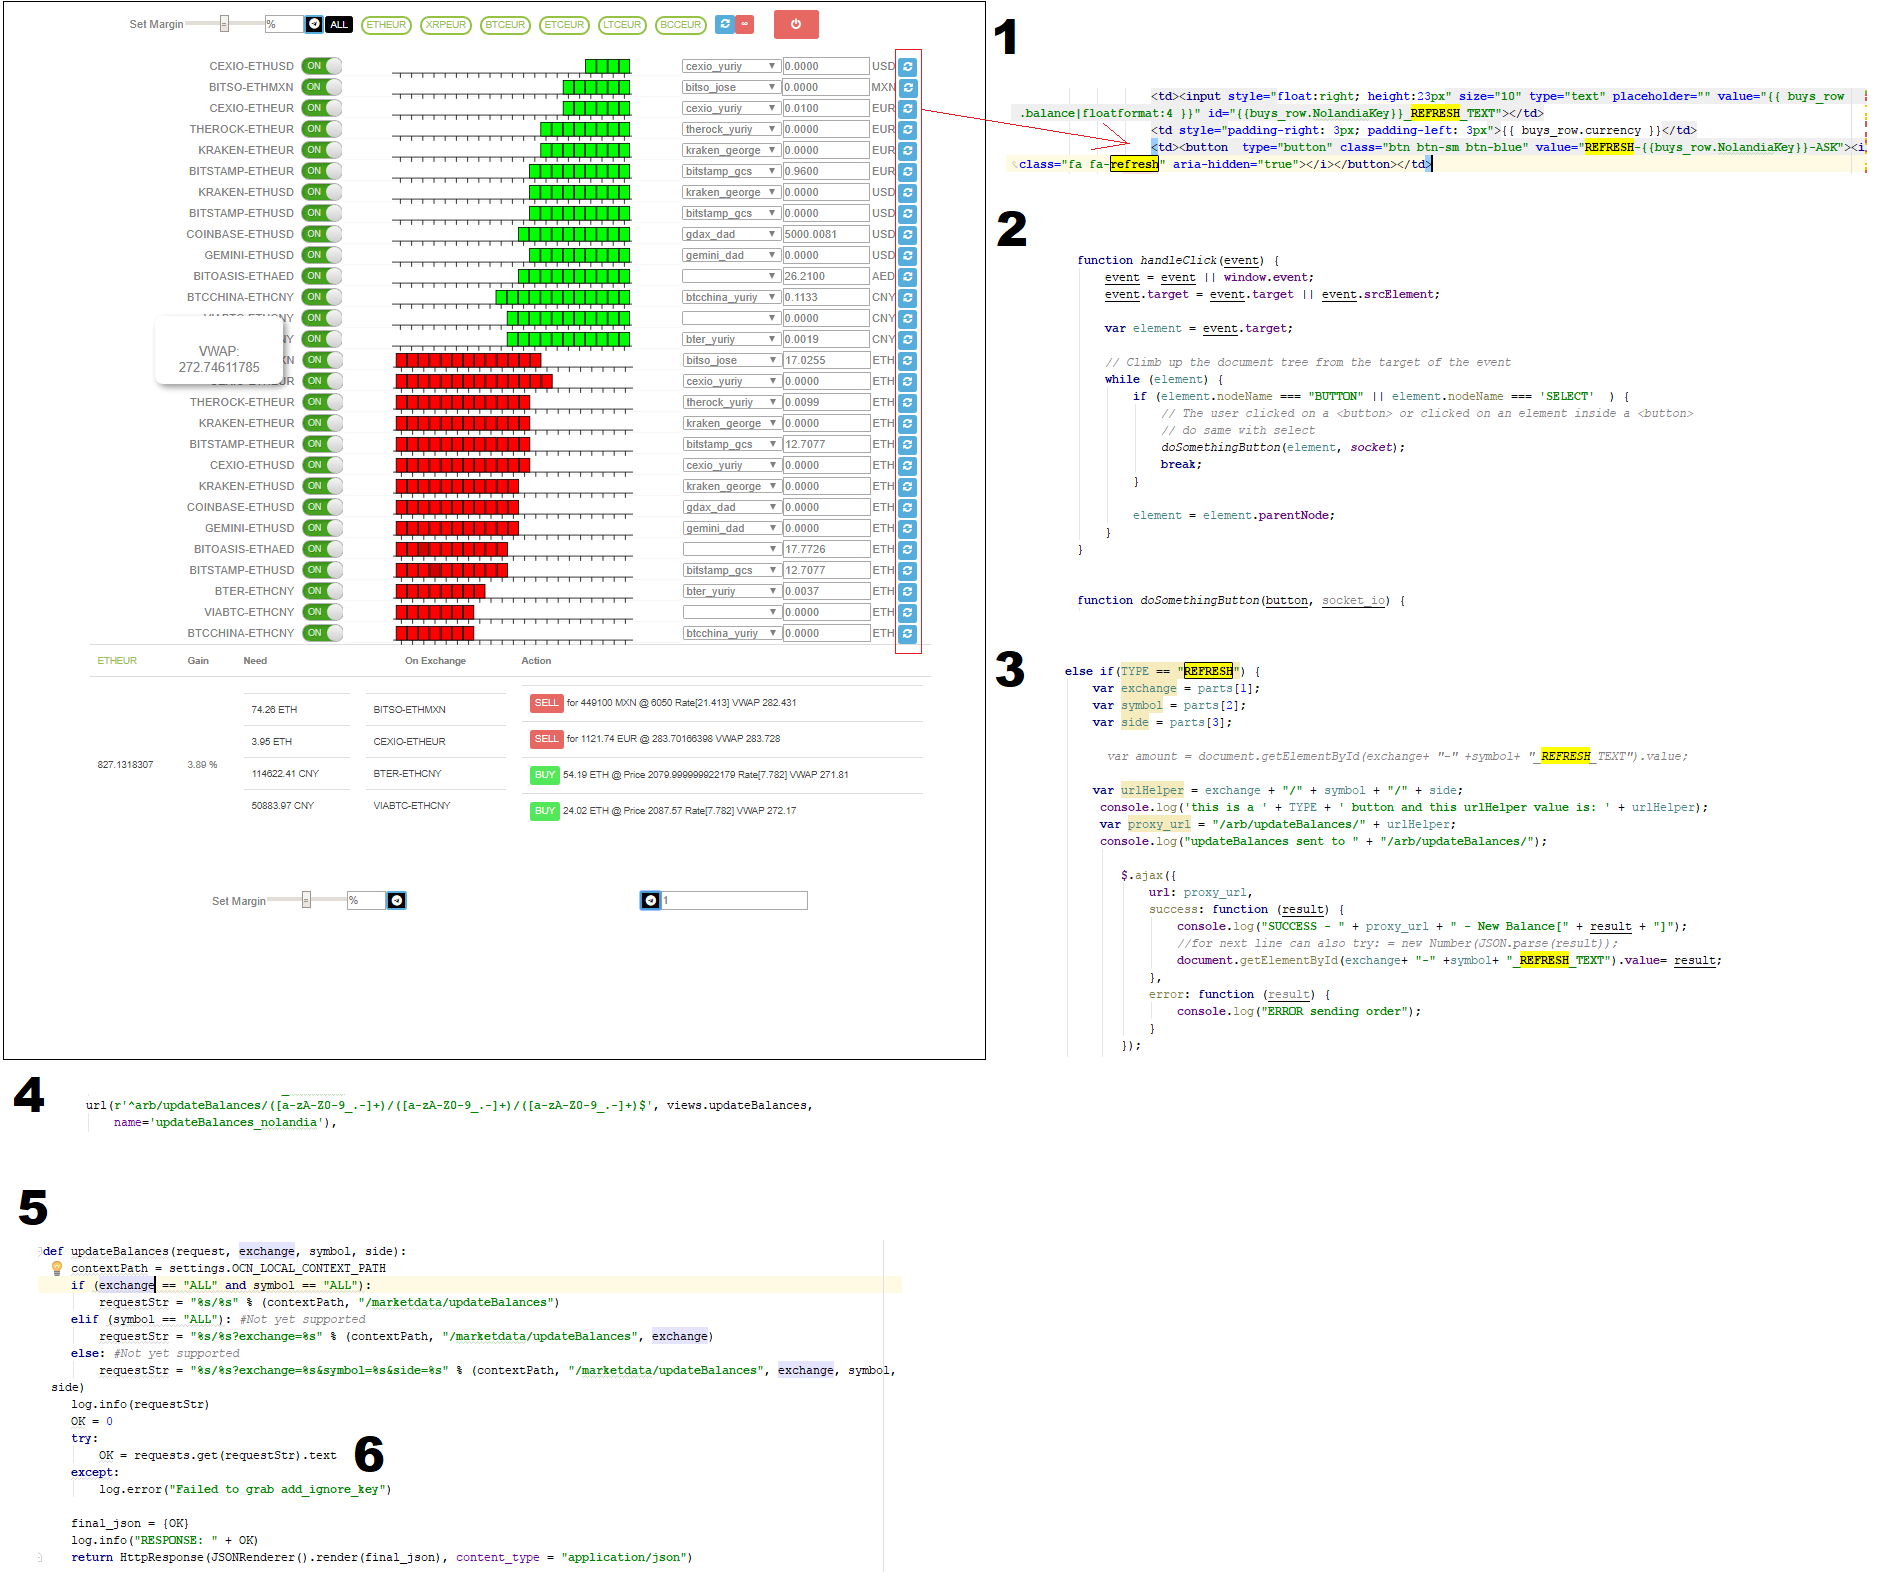
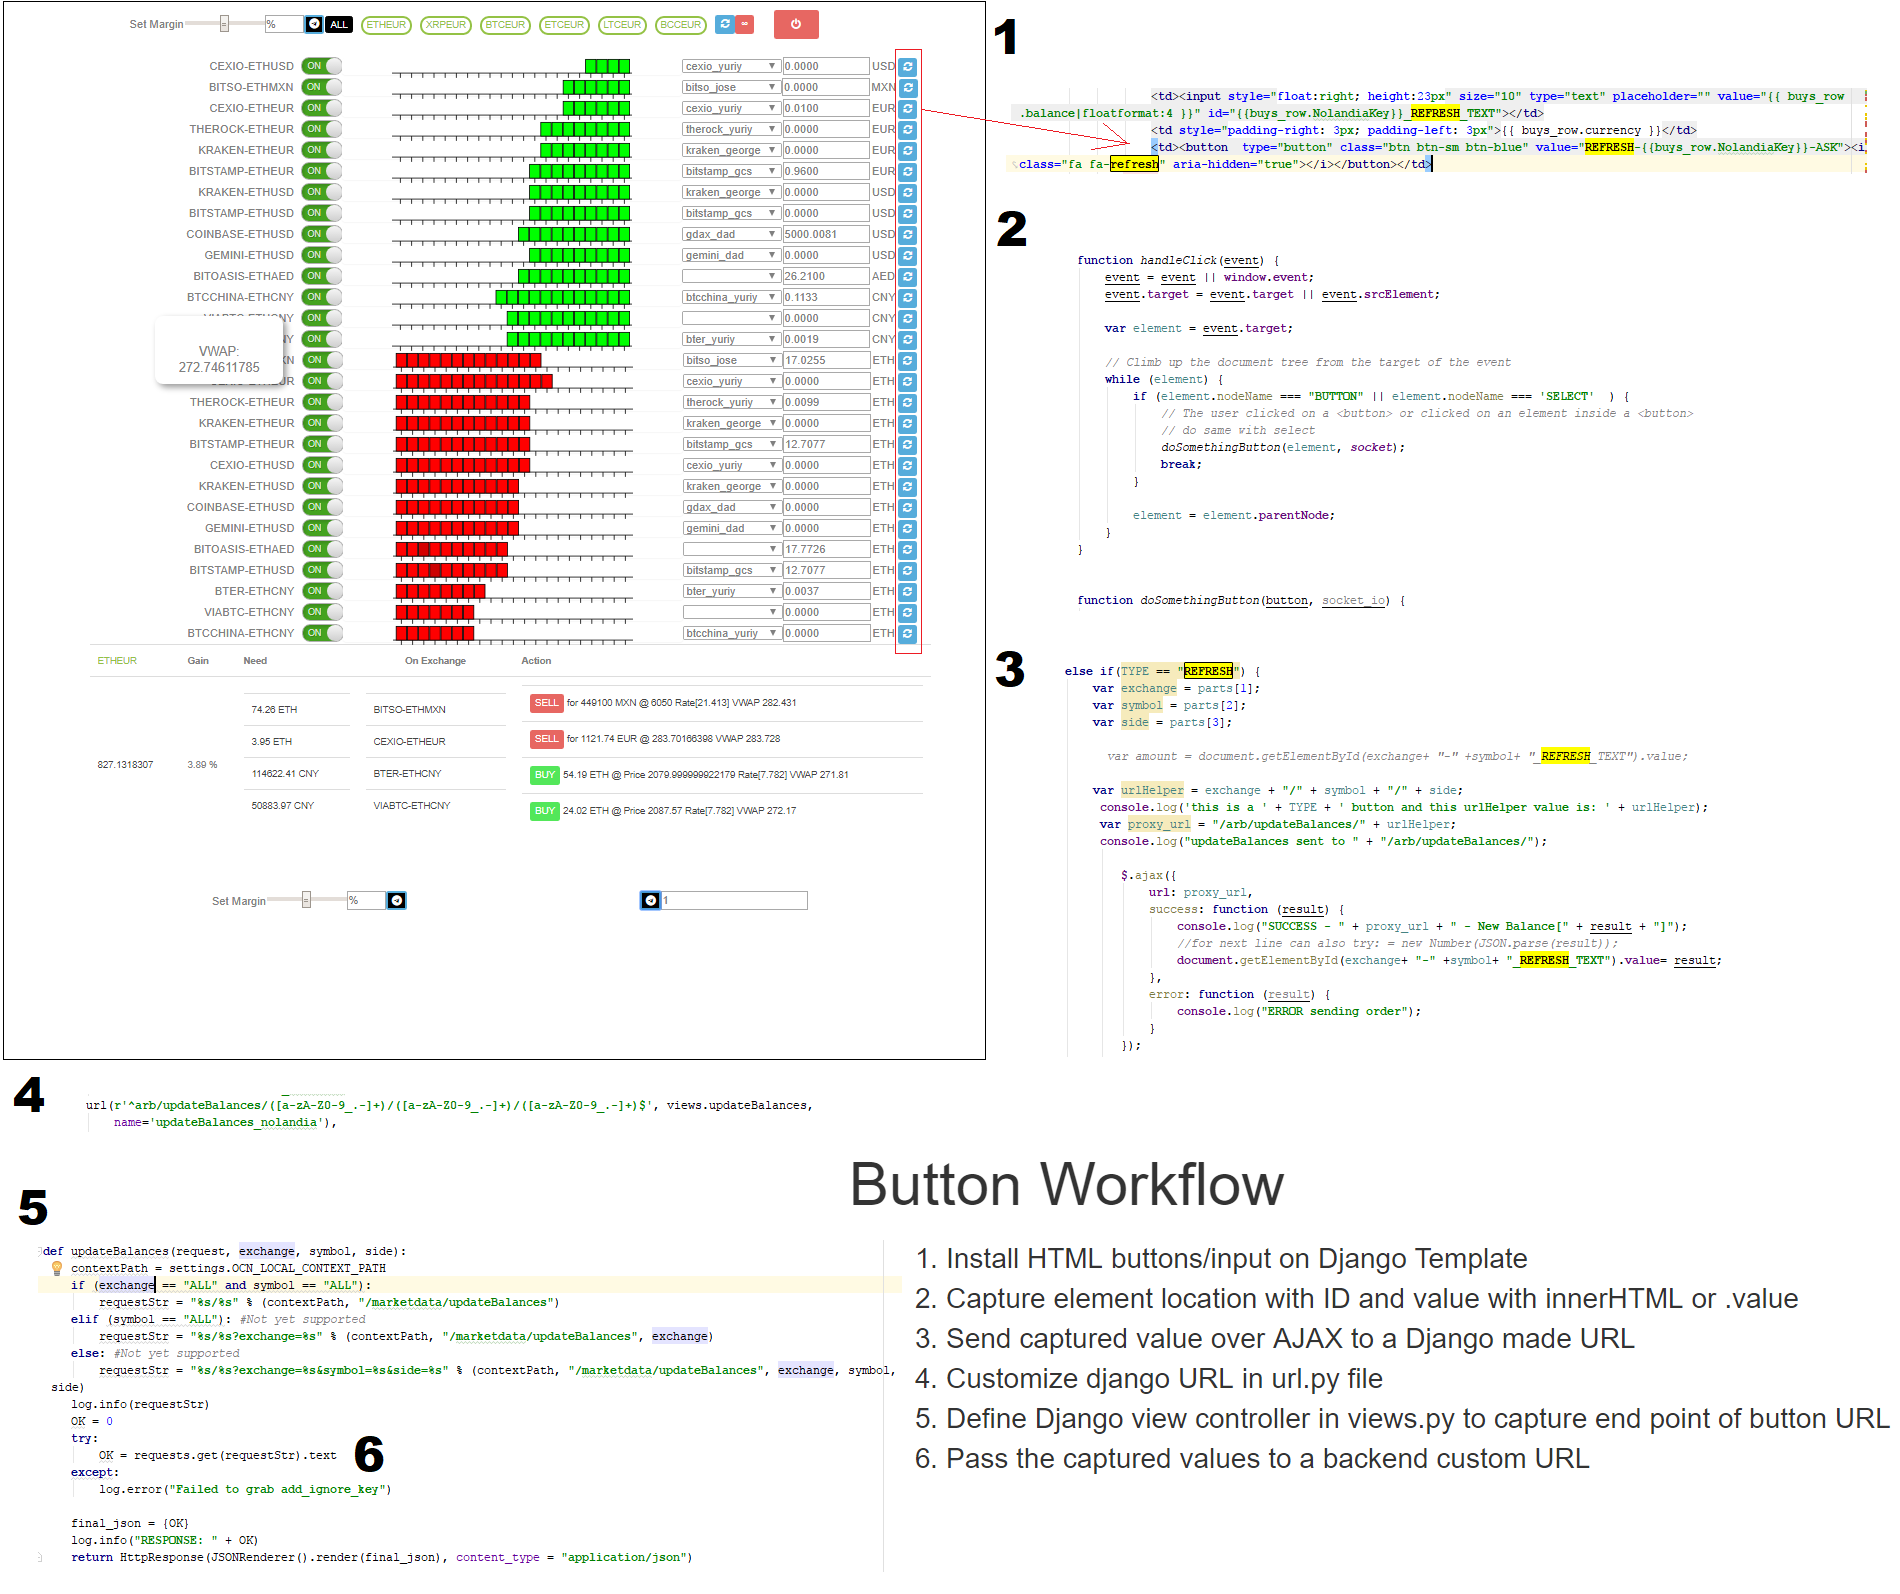
fixes

Changed region(s): [[0.4347, 0.7378, 0.9316, 0.9222], [0.8695, 0.8607, 0.9005, 0.8915]]

diff --git a/index.html b/index.html
@@ -29,15 +29,15 @@
 
 <h1>GCS Fund Project Sample</h1>
 <img style="width: 100%" src="main.png">
-<h2>Button Workflow</h2>
-<ul style="list-style: decimal">
-    <li>Install HTML buttons/input on Django Template</li>
-    <li>Capture element location with ID and value with innerHTML or .value</li>
-    <li>Send captured value over AJAX to a Django made URL</li>
-    <li>Customize django URL in url.py file</li>
-    <li>Define Django view controller in views.py to capture end point of button URL</li>
-    <li>Pass the captured values to a backend custom URL</li>
-</ul>
+<!--<h2>Button Workflow</h2>-->
+<!--<ul style="list-style: decimal">-->
+    <!--<li>Install HTML buttons/input on Django Template</li>-->
+    <!--<li>Capture element location with ID and value with innerHTML or .value</li>-->
+    <!--<li>Send captured value over AJAX to a Django made URL</li>-->
+    <!--<li>Customize django URL in url.py file</li>-->
+    <!--<li>Define Django view controller in views.py to capture end point of button URL</li>-->
+    <!--<li>Pass the captured values to a backend custom URL</li>-->
+<!--</ul>-->
 
 
 
